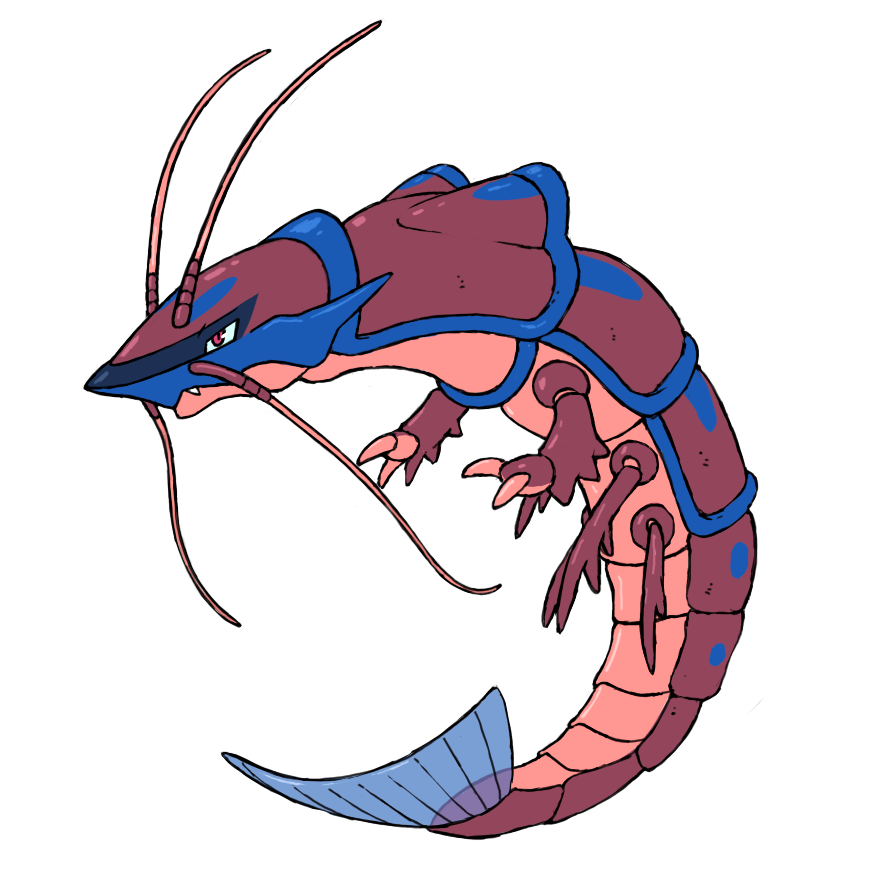
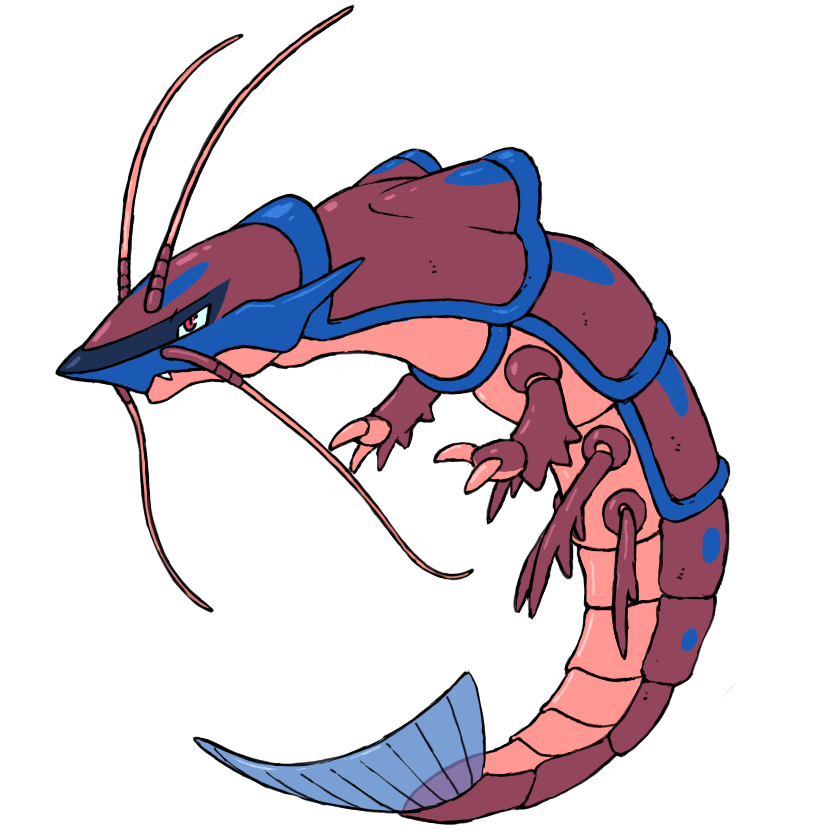
new file

Changed region(s): [[0.0624, 0.0, 0.8739, 0.9964]]

diff --git a/script.js b/script.js
@@ -309,10 +309,10 @@ const pokemons = [
     },
     {
         num: '042',
-        name: 'DEFAULT',
-        img: 'img/pkmn-img/placeholder.png',
-        shinyImg: 'img/pkmn-img/placeholder.png',
-        pokemonTypes: [types.normal],
+        name: 'HORSEA',
+        img: 'img/pkmn-img/042.png',
+        shinyImg: 'img/pkmn-img-shiny/042_s.png',
+        pokemonTypes: [types.water],
     },
     {
         num: '043',
@@ -407,16 +407,16 @@ const pokemons = [
     },
     {
         num: '056',
-        name: 'DEFAULT',
-        img: 'img/pkmn-img/placeholder.png',
-        shinyImg: 'img/pkmn-img/placeholder.png',
-        pokemonTypes: [types.normal],
+        name: 'DRACAREON',
+        img: 'img/pkmn-img/056.png',
+        shinyImg: 'img/pkmn-img-shiny/056_s.png',
+        pokemonTypes: [types.dragon],
     },
     {
         num: '057',
-        name: 'DEFAULT',
-        img: 'img/pkmn-img/placeholder.png',
-        shinyImg: 'img/pkmn-img/placeholder.png',
+        name: 'OMYNEON',
+        img: 'img/pkmn-img/057.png',
+        shinyImg: 'img/pkmn-img-shiny/057_s.png',
         pokemonTypes: [types.normal],
     },
     {

diff --git a/index.html b/index.html
@@ -59,9 +59,7 @@
                 <img src="img/icons8-gênero-64.png" class="btn">
             </div>
         </div>
-        
     </div>
-    
     <script src="script.js"></script>
 </body>
 </html>
